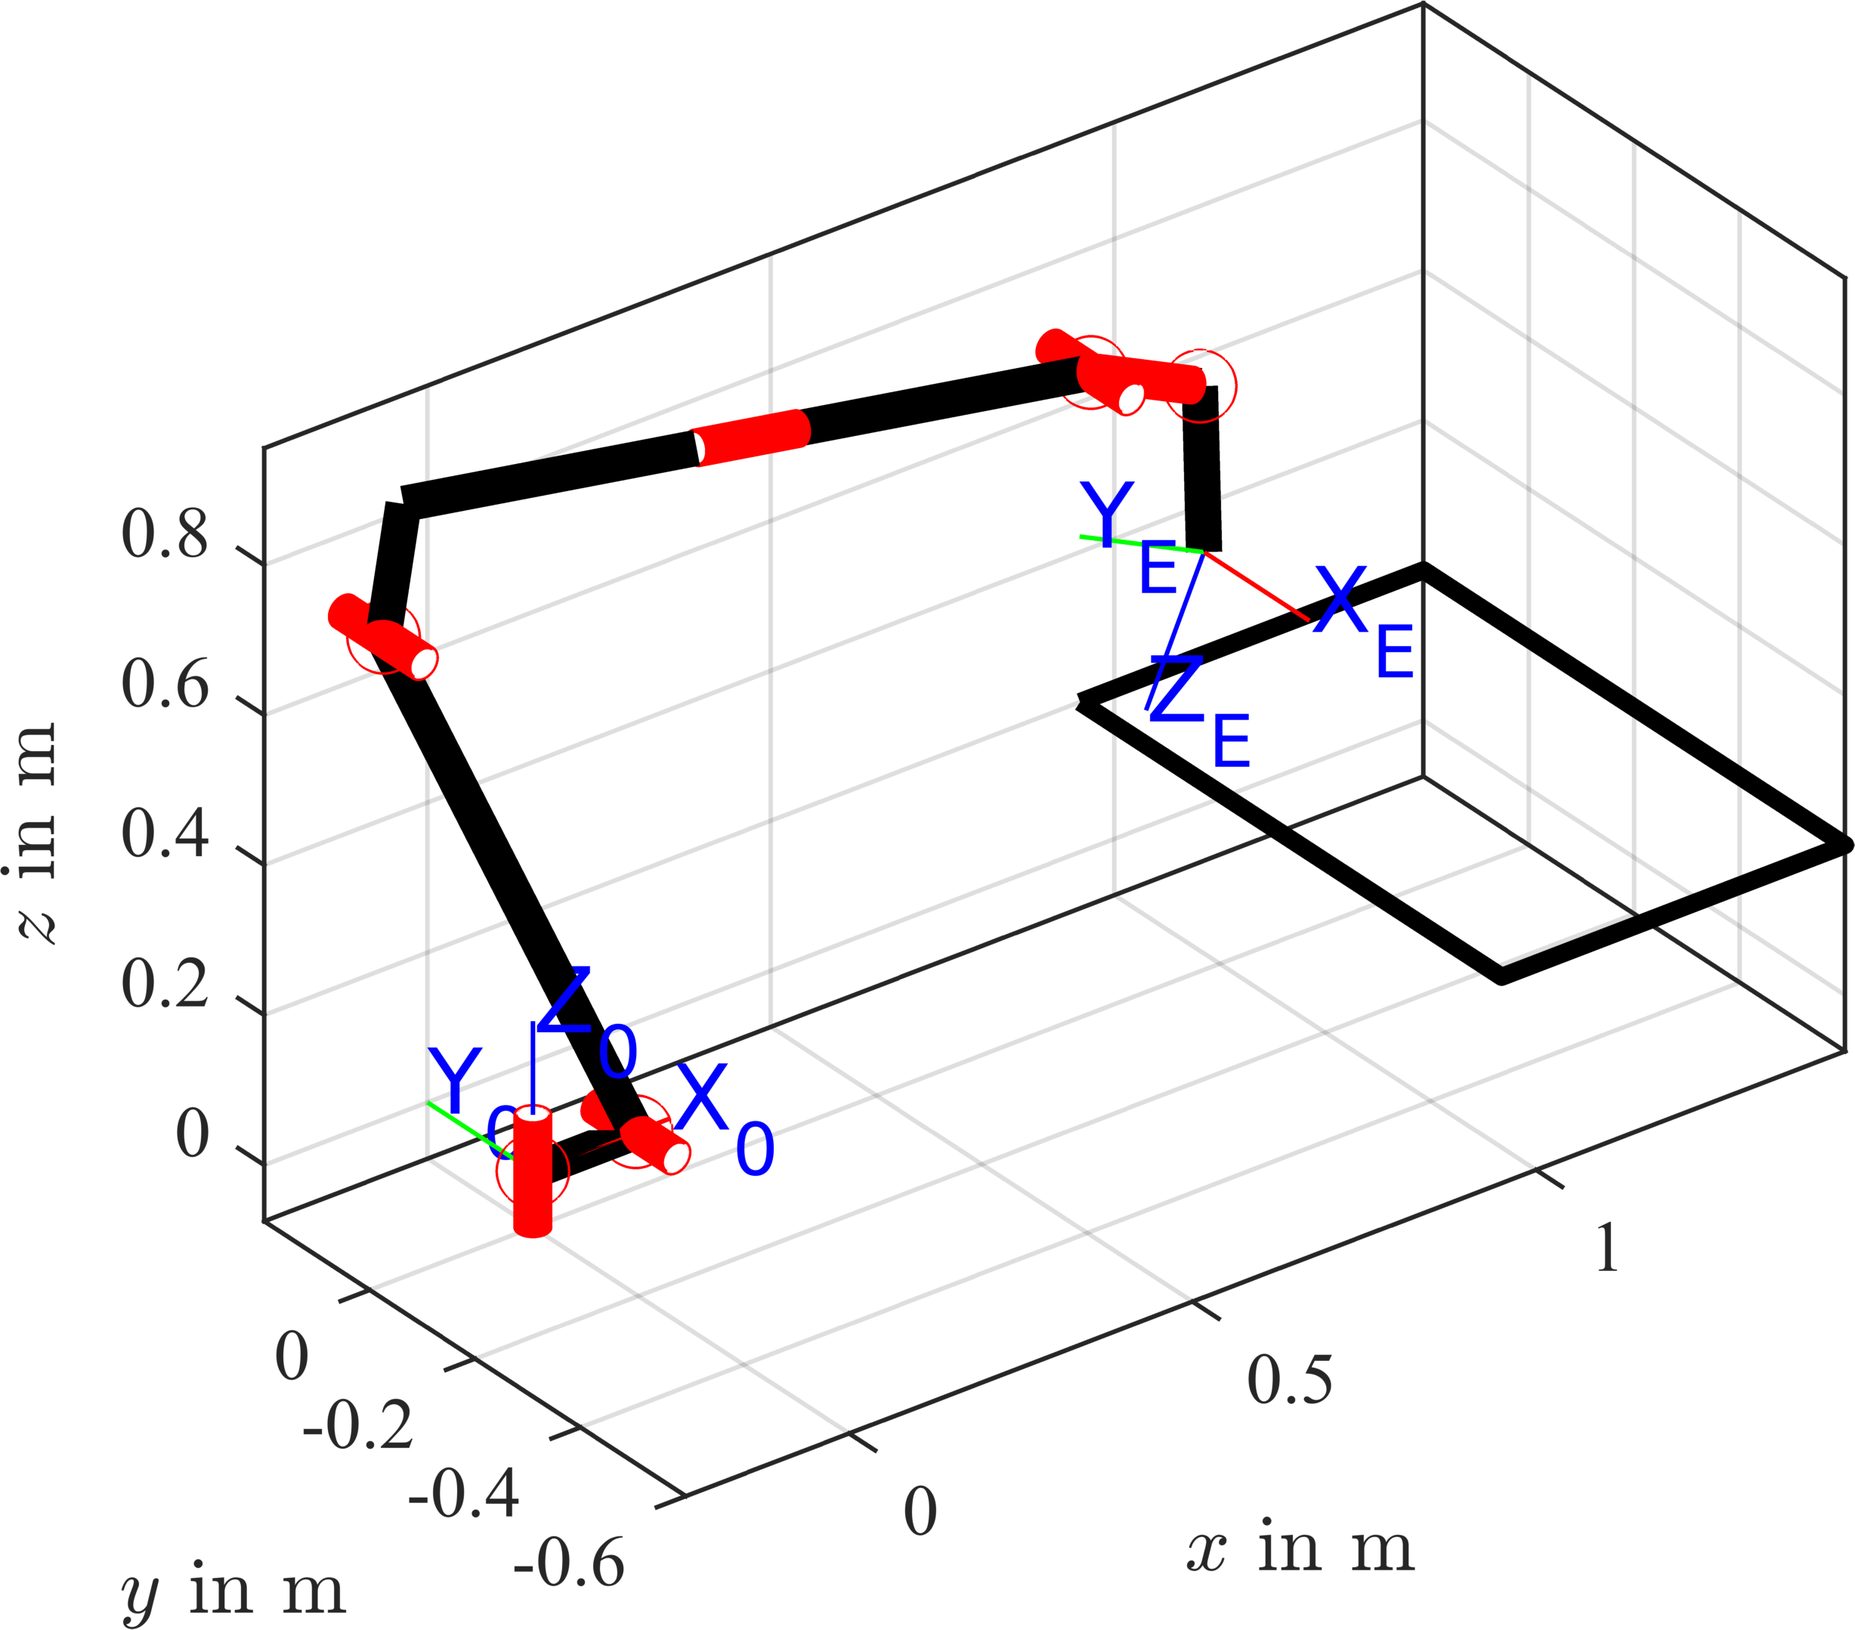
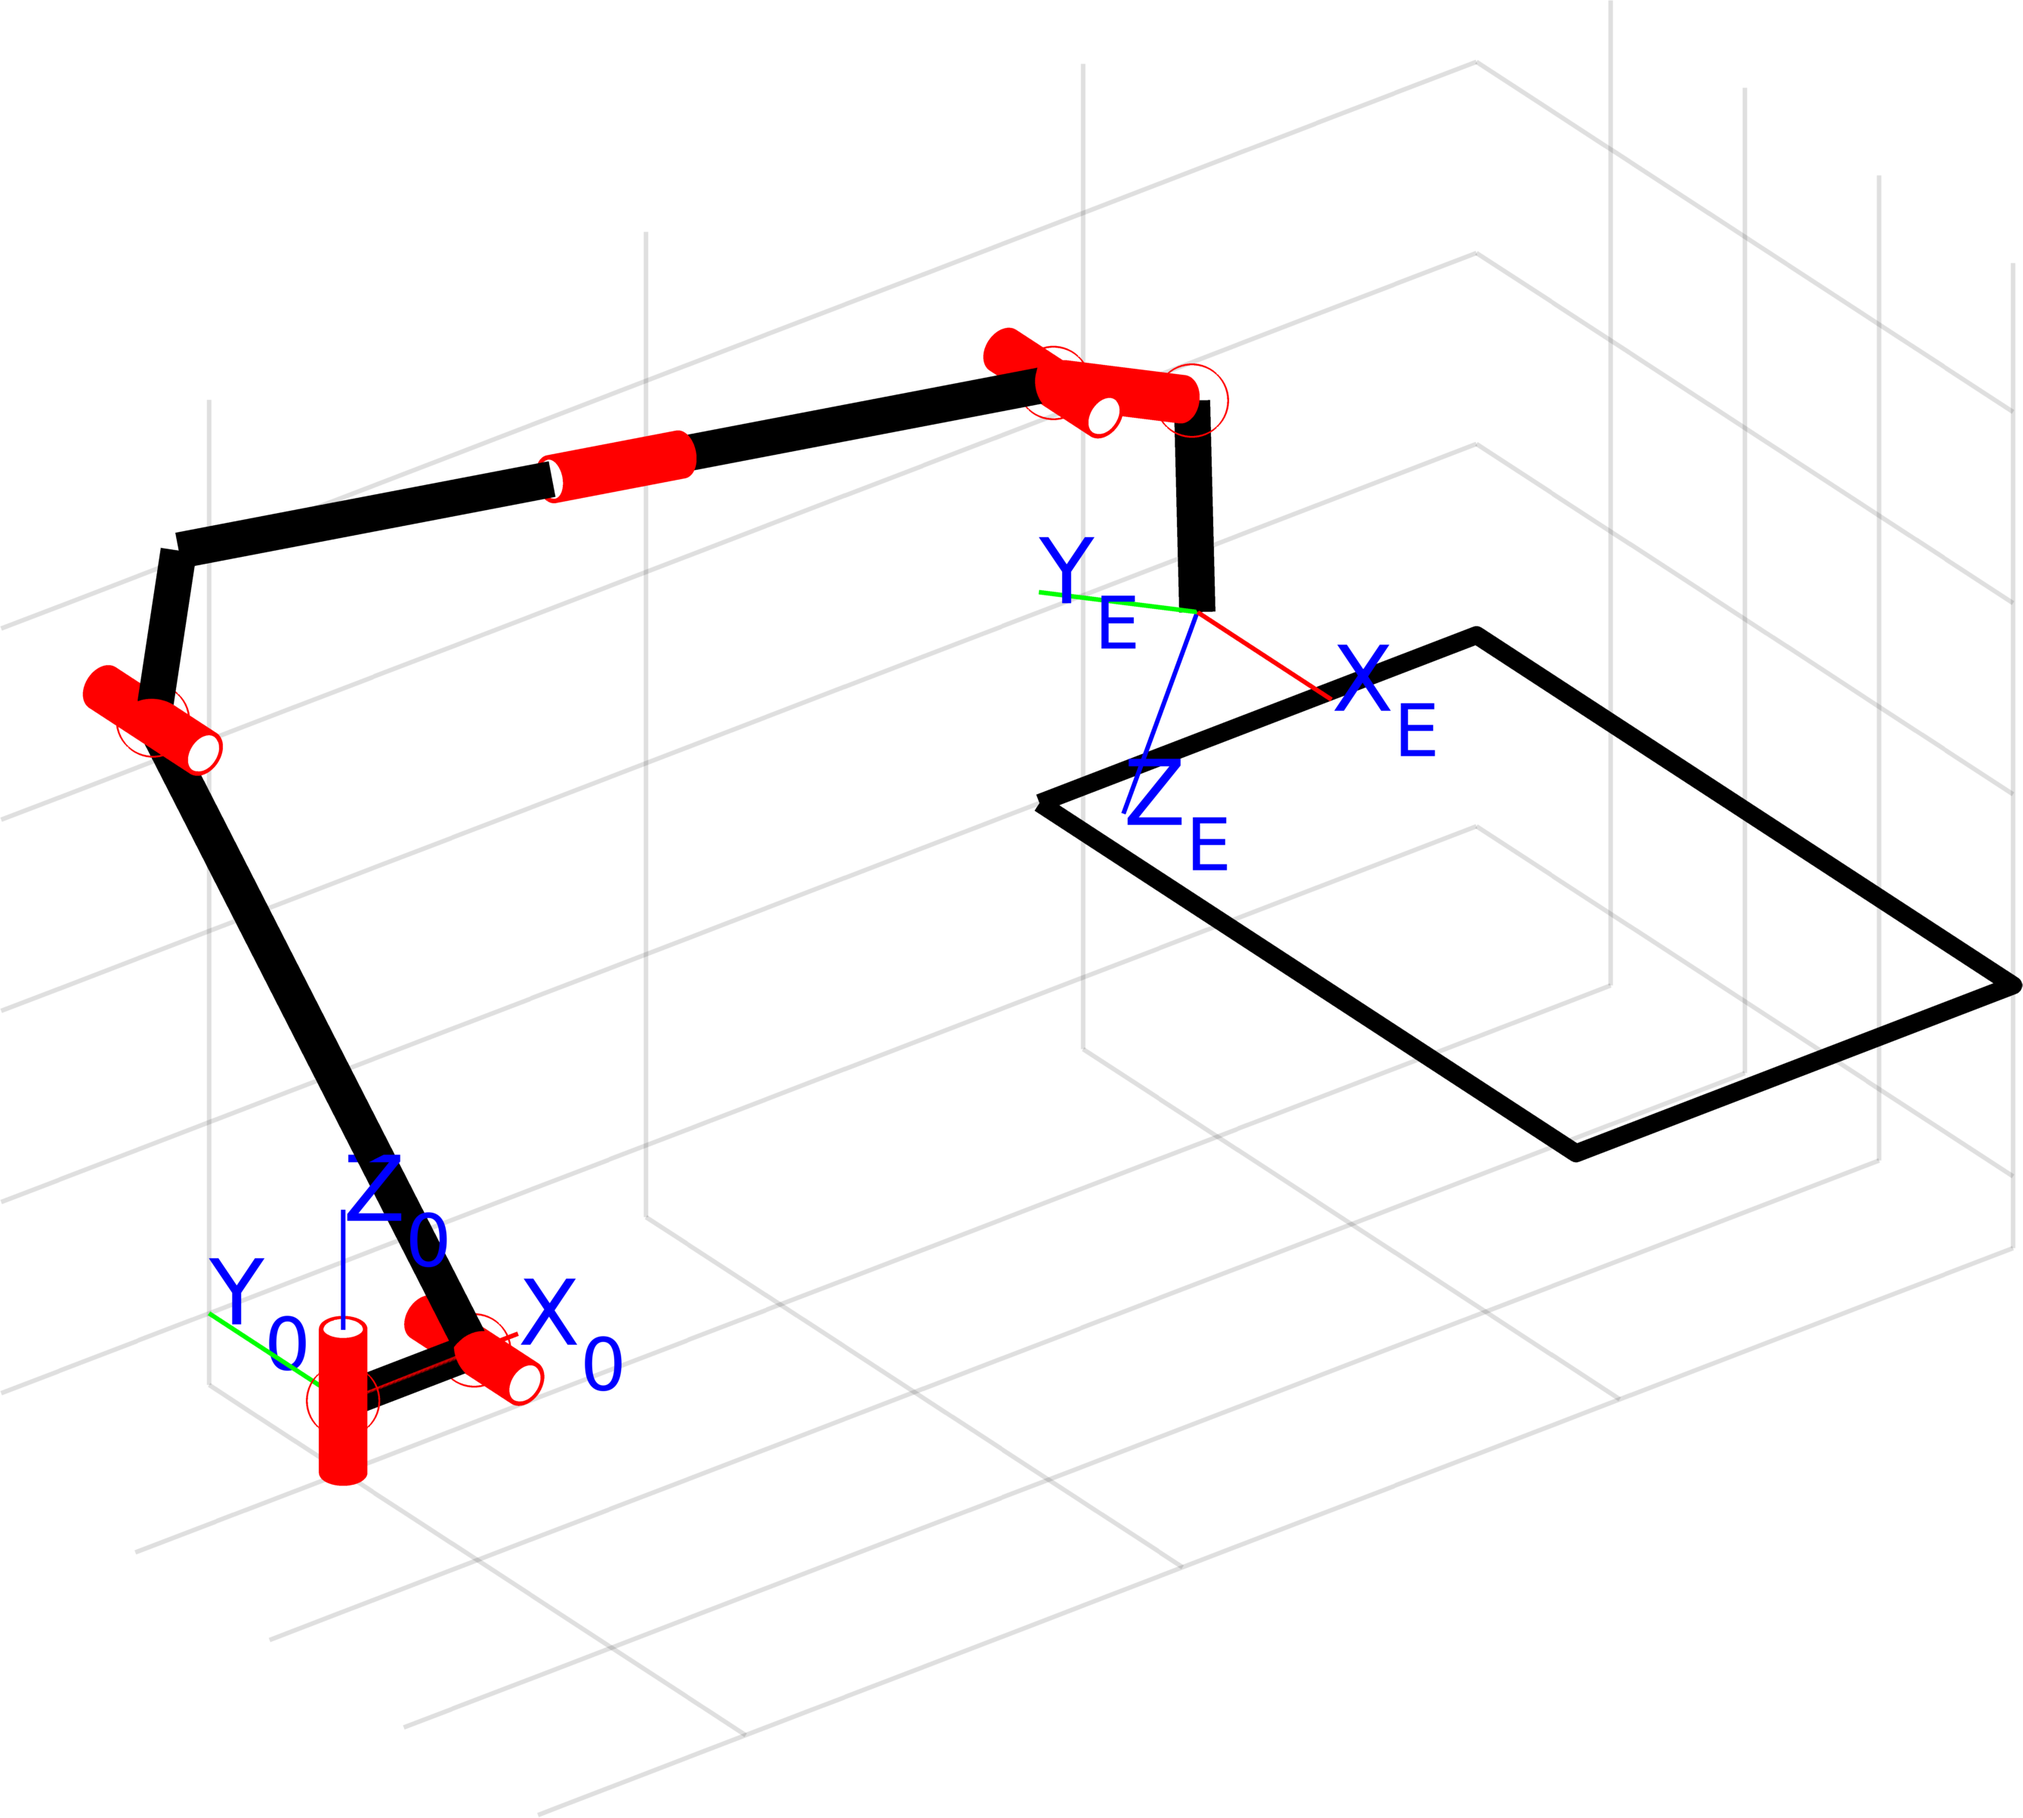
Roboter-Bild neu erzeugt (ohne Achsen und Achsbeschriftungen)

diff --git a/figures/serrob_traj.m b/figures/serrob_traj.m
@@ -475,16 +475,27 @@ export_fig(20, fullfile(respath, 'serrob_traj_nullspace_optim.pdf'));
 
 %% 3D-Bild des Roboters
 figure(21);clf;
-s_plot = struct( 'ks', [], 'straight', 0);
+s_plot = struct( 'ks', [1, RS.NJ+2], 'straight', 0);
 hold on;
 grid on;
-xlabel('$x$ in m', 'interpreter', 'latex');
-ylabel('$y$ in m', 'interpreter', 'latex');
-zlabel('$z$ in m', 'interpreter', 'latex');
+% xlabel('$x$ in m', 'interpreter', 'latex');
+% ylabel('$y$ in m', 'interpreter', 'latex');
+% zlabel('$z$ in m', 'interpreter', 'latex');
+set(gca, 'XTICKLABEL', {});
+set(gca, 'YTICKLABEL', {});
+set(gca, 'ZTICKLABEL', {});
 view(3);
 RS.plot( q0_ik_fix, s_plot );
 plot3(X(:,1), X(:,2), X(:,3), 'k-', 'LineWidth', 2);
 figure_format_publication()
+set(gca, 'Box', 'off');
+ax = get(gca, 'XAXIS'); set(ax, 'Visible', 'off');
+ax = get(gca, 'YAXIS'); set(ax, 'Visible', 'off');
+ax = get(gca, 'ZAXIS'); set(ax, 'Visible', 'off');
+
+% set(gca, 'XColor', [1 1 1]);
+% set(gca, 'YColor', [1 1 1]);
+% set(gca, 'ZColor', [1 1 1]);
 set_size_plot_subplot(21,...
   8,8,gca,...
   0.01,0.01,0.0,0.01,... % bl,br,hu,hd,
